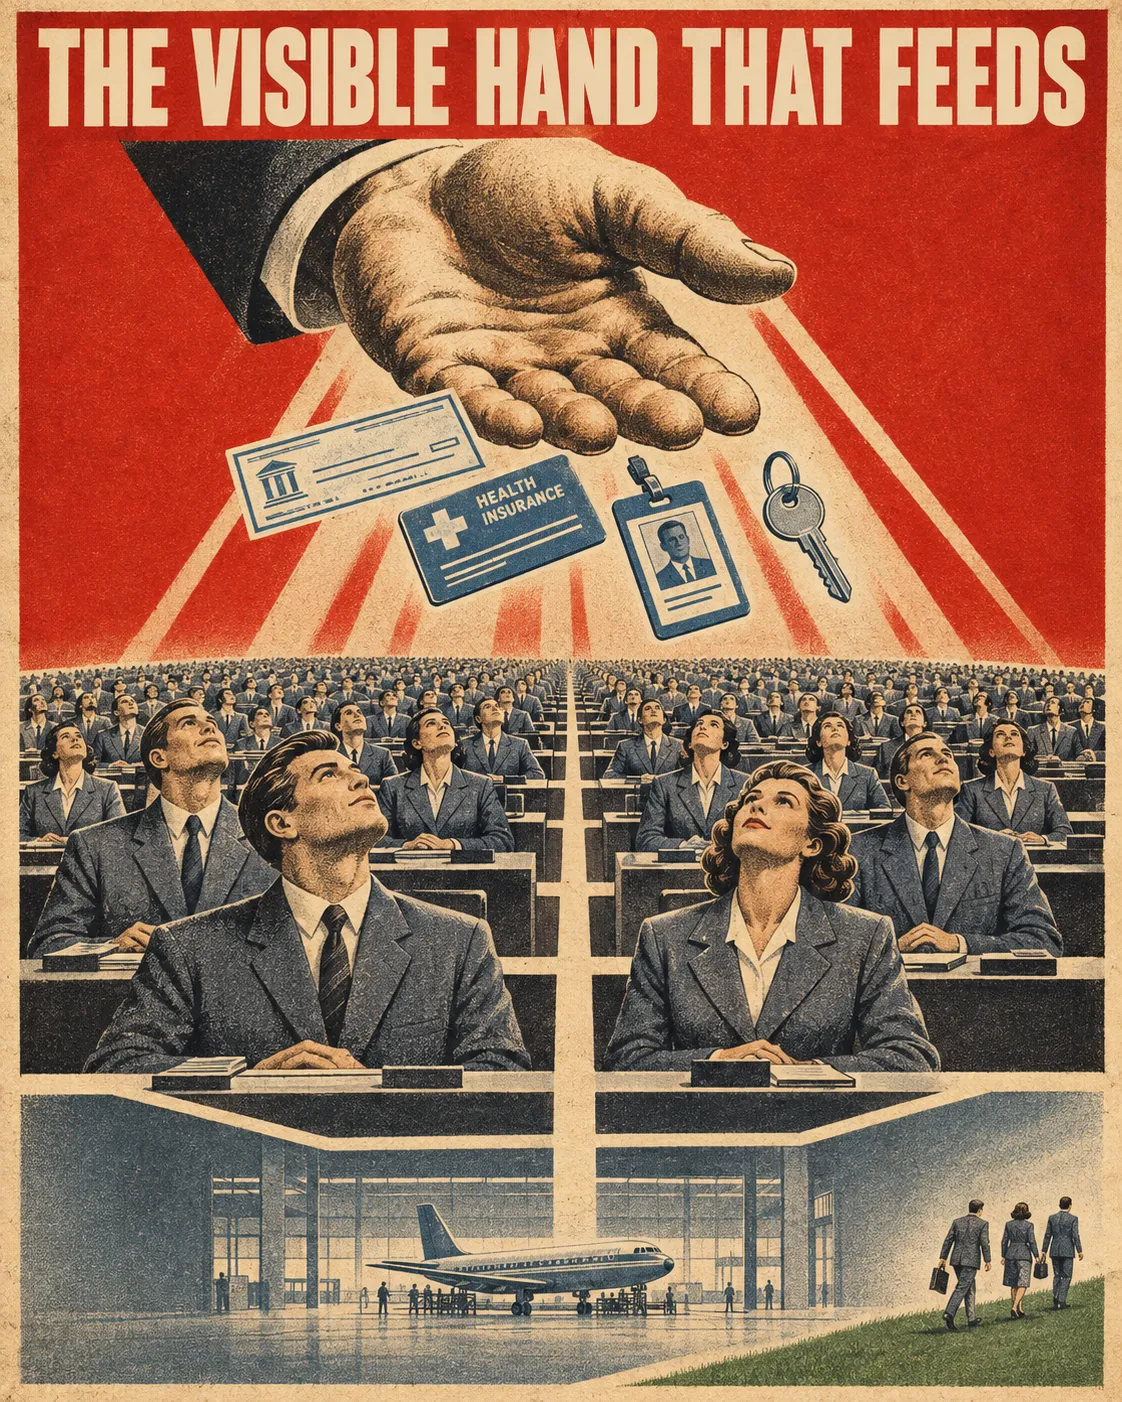
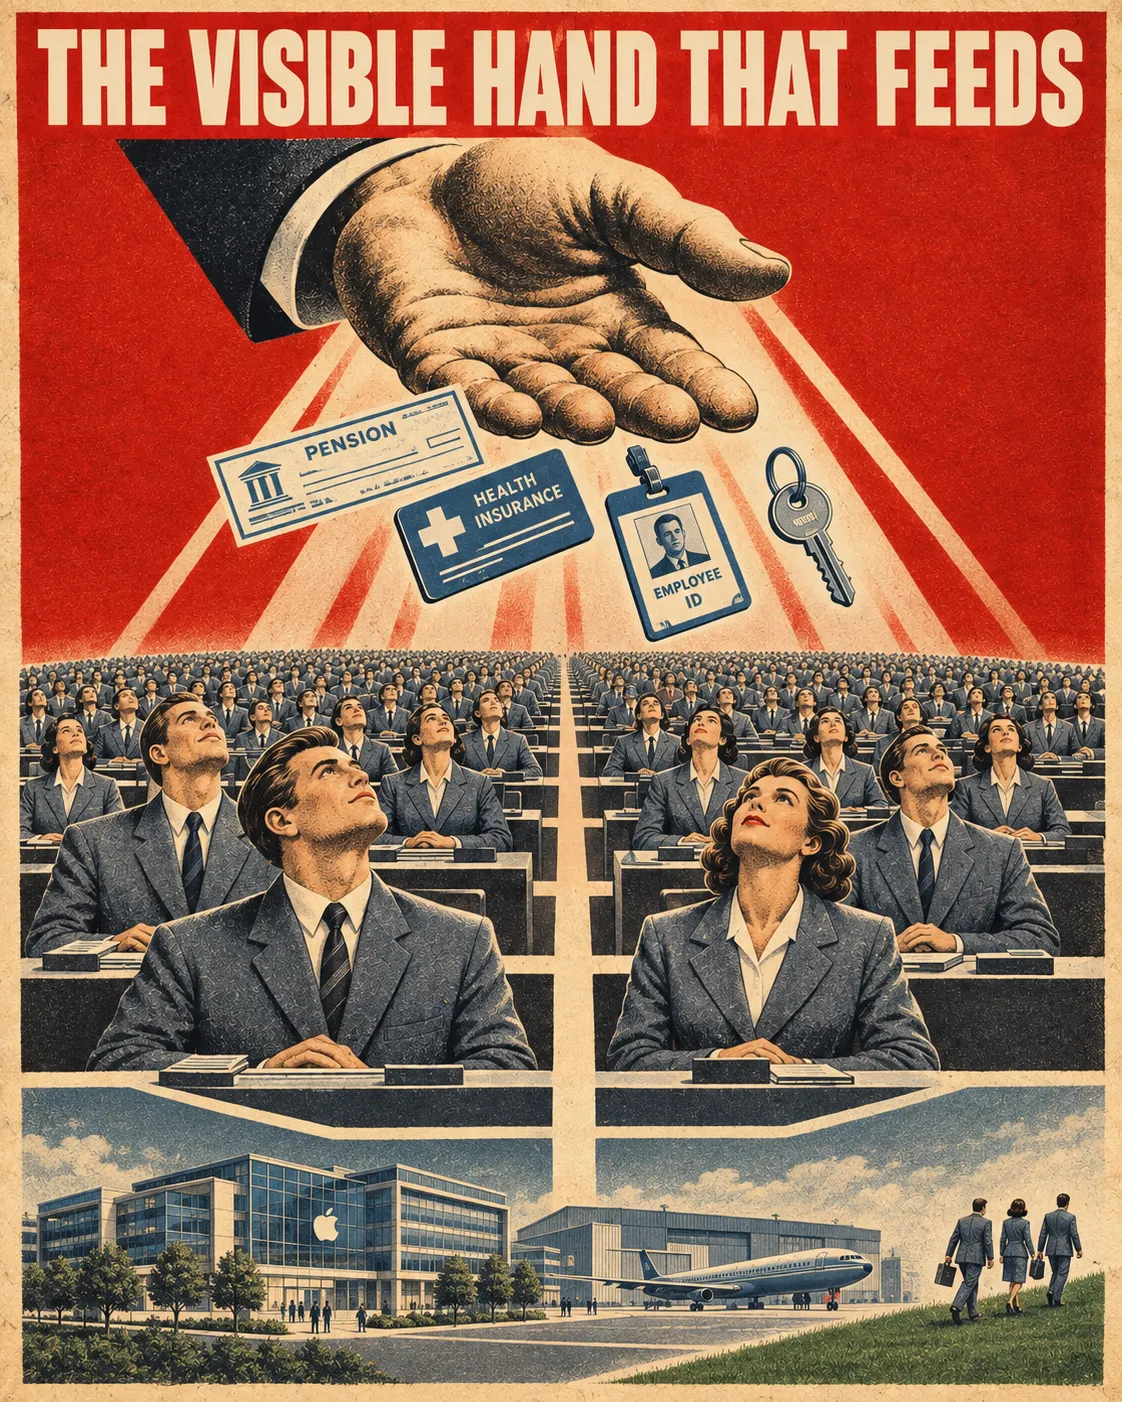
Update Visible Hand hero image

diff --git a/_posts/2026-09-24-the-visible-hand-that-feeds.md b/_posts/2026-09-24-the-visible-hand-that-feeds.md
@@ -5,7 +5,7 @@ date: 2026-09-24
 permalink: /visible-hand.html
 ---
 
-![The Visible Hand That Feeds: a vintage propaganda-style poster of a giant open hand raining a paycheck, health insurance card, ID badge, and keys down on rows of office workers gazing up from their desks](/assets/images/media/visible-hand.webp)
+![The Visible Hand That Feeds: a vintage propaganda-style poster of a giant open hand raining a pension check, health insurance card, employee ID badge, and keys down on rows of office workers gazing up from their desks, with a corporate campus and airplane hangar below](/assets/images/media/visible-hand.webp)
 
 **I. Before managers**
 
